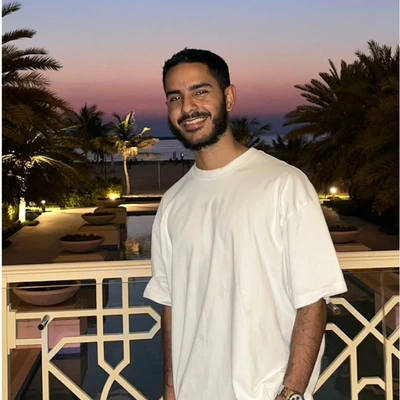
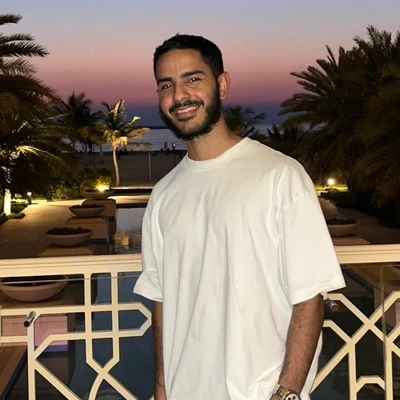
about page added and detailed

diff --git a/app/about/page.tsx b/app/about/page.tsx
@@ -1,0 +1,188 @@
+import Link from 'next/link'
+import type { Metadata } from 'next'
+import Footer from '@/components/sections/Footer'
+import { AUTHOR, AUTHOR_ID, authorSchemaNode } from '@/lib/author'
+
+const BASE = 'https://withitqaan.com'
+
+export const metadata: Metadata = {
+  title: 'About Shayan Qureshi | Founder of ITQAAN',
+  description:
+    'ITQAAN is the work of Shayan Qureshi, a Sharjah-raised, self-taught designer with over a decade building websites, brands, and campaigns for Muslim businesses. Halal by default, no music, no images of women, seen by hundreds of millions.',
+  alternates: { canonical: '/about' },
+  openGraph: {
+    title: 'About Shayan Qureshi | Founder of ITQAAN',
+    description:
+      'Over a decade of premium, halal creative work for Muslim businesses across the UAE, the GCC, and Europe.',
+    url: '/about',
+    type: 'profile',
+  },
+}
+
+const schema = {
+  '@context': 'https://schema.org',
+  '@graph': [
+    {
+      '@type': 'ProfilePage',
+      '@id': `${BASE}/about`,
+      url: `${BASE}/about`,
+      name: 'About Shayan Qureshi | Founder of ITQAAN',
+      isPartOf: { '@id': `${BASE}/#website` },
+      about: { '@id': AUTHOR_ID },
+      mainEntity: { '@id': AUTHOR_ID },
+      breadcrumb: { '@id': `${BASE}/about#breadcrumb` },
+    },
+    authorSchemaNode,
+    {
+      '@type': 'BreadcrumbList',
+      '@id': `${BASE}/about#breadcrumb`,
+      itemListElement: [
+        { '@type': 'ListItem', position: 1, name: 'Home', item: BASE },
+        { '@type': 'ListItem', position: 2, name: 'About', item: `${BASE}/about` },
+      ],
+    },
+  ],
+}
+
+const sections = [
+  {
+    h2: 'The standard behind the name',
+    body: [
+      'The word itqaan appears in the Quran and in the words of the Prophet ﷺ, who taught that Allah loves that when one of you does a work, he does it with itqaan, with excellence and care.',
+      'Shayan came across this hadith after years of already working that way: taking his time, obsessing over the detail, refusing to hand over anything he was not proud of. The hadith named the standard he already held, and it became the name of the studio. He works to embody it in every part of life, not only in the professional work.',
+    ],
+  },
+  {
+    h2: 'Self-taught, from the very first project',
+    body: [
+      'Shayan taught himself Photoshop on his own early projects, then taught it to others. Graphic design came first, then freelance clients, then web design and video editing. The last five years brought his strongest work and his highest-paying clients.',
+      'Today he designs and builds websites, brand identities, graphic design. A client works with one person who understands how every piece fits together, not a chain of handoffs between strangers.',
+    ],
+  },
+  {
+    h2: 'Halal by default, and it still outperforms',
+    body: [
+      'Every project is built the halal way: no music, no images of women, and honest fixed pricing. Most agencies lean on music and women to make work perform, and treat anything else as a handicap.',
+      'Shayan’s work has been seen by hundreds of millions of views and impressions online without either. The discipline is the skill. Working within these limits forces sharper ideas, stronger design, and closer attention to the details that move results, alhamdulillah. Clients get work that respects their deen and beats what the shortcut would have produced.',
+    ],
+  },
+  {
+    h2: 'Rooted in Sharjah, working across the world',
+    body: [
+      'Shayan was raised in Sharjah and knows the UAE market from the inside. He has delivered work for major clients across the UAE, the wider GCC, and Europe, including Saudi Arabia, Oman, the UK, Sweden, and Ireland.',
+      'Everything runs remotely over WhatsApp, email, and screen shares, so distance never changes the standard or the price.',
+    ],
+  },
+  {
+    h2: 'What working with ITQAAN feels like',
+    body: [
+      'Calm and unhurried. A client is working with one professional who has over a decade of experience and a record of results behind him.',
+      'The pace is steady, the communication is direct, and the details are handled, so the business owner stays free to run the business.',
+    ],
+  },
+]
+
+export default function AboutPage() {
+  return (
+    <main style={{ minHeight: '100svh', background: 'var(--color-void)' }}>
+      <script type="application/ld+json" dangerouslySetInnerHTML={{ __html: JSON.stringify(schema) }} />
+
+      {/* Header */}
+      <header style={{ position: 'sticky', top: 0, zIndex: 10, borderBottom: '1px solid var(--color-ink-8)', background: 'rgba(2,2,2,0.72)', backdropFilter: 'blur(20px)', WebkitBackdropFilter: 'blur(20px)' }}>
+        <div style={{ maxWidth: '900px', margin: '0 auto', padding: '18px 32px', display: 'flex', alignItems: 'center', justifyContent: 'space-between' }}>
+          <Link href="/" style={{ display: 'inline-flex', alignItems: 'baseline', gap: '8px', textDecoration: 'none' }}>
+            <span style={{ fontFamily: 'var(--font-display)', fontSize: '1rem', fontWeight: 800, letterSpacing: '0.12em', textTransform: 'uppercase', color: 'var(--color-ink)' }}>ITQAAN</span>
+            <span style={{ fontFamily: 'var(--font-mono)', fontSize: '0.55rem', letterSpacing: '0.18em', textTransform: 'uppercase', color: 'var(--color-ink-28)' }}>Creative Agency</span>
+          </Link>
+          <Link href="/quote" style={{ display: 'inline-flex', alignItems: 'center', gap: '6px', padding: '10px 20px', borderRadius: '9999px', background: 'var(--color-ink)', color: 'var(--color-void)', fontSize: '0.82rem', fontWeight: 600, textDecoration: 'none' }}>
+            Get a quote
+          </Link>
+        </div>
+      </header>
+
+      <article style={{ maxWidth: '900px', margin: '0 auto', padding: '72px 32px 40px' }}>
+        <style>{`
+          @media (max-width: 760px) {
+            .about-hero { grid-template-columns: 1fr !important; gap: 36px !important; }
+            .about-photo { max-width: 280px; }
+            .about-wrap { padding: 48px 20px 32px !important; }
+          }
+          .about-body { max-width: 680px; }
+        `}</style>
+
+        <div className="about-wrap">
+          {/* Hero */}
+          <div className="about-hero" style={{ display: 'grid', gridTemplateColumns: '1.5fr 1fr', gap: '48px', alignItems: 'center', marginBottom: '72px' }}>
+            <div>
+              <p style={{ display: 'flex', alignItems: 'center', gap: '12px', fontFamily: 'var(--font-mono)', fontSize: '0.65rem', letterSpacing: '0.22em', textTransform: 'uppercase', color: 'var(--color-ink-48)', margin: '0 0 20px' }}>
+                <span aria-hidden="true" style={{ width: '4px', height: '4px', borderRadius: '50%', background: 'var(--color-ember)' }} />
+                About ITQAAN
+              </p>
+              <h1 style={{ fontFamily: 'var(--font-display)', fontSize: 'clamp(32px, 5vw, 54px)', fontWeight: 800, lineHeight: 1.05, letterSpacing: '-0.03em', color: 'var(--color-ink)', margin: '0 0 24px' }}>
+                Halal and premium were never a trade-off.
+              </h1>
+              <p style={{ fontSize: '1.1rem', fontWeight: 300, lineHeight: 1.7, color: 'var(--color-ink-72)', margin: 0 }}>
+                ITQAAN is the work of Shayan Qureshi, a self-taught designer raised in Sharjah who has spent over a decade building websites, brands, and campaigns for Muslim businesses. All of it without music, without images of women, and seen by hundreds of millions.
+              </p>
+            </div>
+
+            <figure style={{ margin: 0 }}>
+              <div className="about-photo" style={{ position: 'relative', width: '100%', aspectRatio: '4 / 5', borderRadius: '18px', overflow: 'hidden', border: '1px solid var(--color-ink-10)', background: 'var(--color-ink-3)' }}>
+                <img src={AUTHOR.image} alt={`${AUTHOR.name}, founder of ITQAAN`} style={{ position: 'absolute', inset: 0, width: '100%', height: '100%', objectFit: 'cover' }} />
+              </div>
+              <figcaption style={{ fontFamily: 'var(--font-mono)', fontSize: '0.6rem', letterSpacing: '0.14em', textTransform: 'uppercase', color: 'var(--color-ink-28)', marginTop: '12px', lineHeight: 1.5 }}>
+                {AUTHOR.name}, founder of ITQAAN. Over a decade of halal creative work.
+              </figcaption>
+            </figure>
+          </div>
+
+          {/* Body sections */}
+          <div className="about-body">
+            {sections.map((s, i) => (
+              <section key={i} style={{ marginBottom: '48px' }}>
+                <h2 style={{ fontFamily: 'var(--font-display)', fontSize: 'clamp(22px, 3vw, 30px)', fontWeight: 700, letterSpacing: '-0.02em', color: 'var(--color-ink)', margin: '0 0 18px', lineHeight: 1.2 }}>
+                  {s.h2}
+                </h2>
+                {s.body.map((p, j) => (
+                  <p key={j} style={{ fontSize: '1rem', fontWeight: 300, lineHeight: 1.8, color: 'var(--color-ink-48)', margin: '0 0 16px' }}>{p}</p>
+                ))}
+              </section>
+            ))}
+
+            {/* Proof, linked out */}
+            <section style={{ marginTop: '56px', paddingTop: '40px', borderTop: '1px solid var(--color-ink-8)' }}>
+              <h2 style={{ fontFamily: 'var(--font-display)', fontSize: 'clamp(20px, 2.6vw, 26px)', fontWeight: 700, letterSpacing: '-0.02em', color: 'var(--color-ink)', margin: '0 0 16px' }}>
+                See the work, hear from clients
+              </h2>
+              <p style={{ fontSize: '1rem', fontWeight: 300, lineHeight: 1.8, color: 'var(--color-ink-48)', margin: '0 0 22px' }}>
+                The clearest measure of a standard is the work it produces and the people it is produced for.
+              </p>
+              <div style={{ display: 'flex', flexWrap: 'wrap', gap: '10px' }}>
+                <Link href="/portfolio" style={{ display: 'inline-flex', alignItems: 'center', gap: '8px', padding: '12px 22px', borderRadius: '9999px', border: '1px solid var(--color-ink-10)', background: 'var(--color-ink-3)', color: 'var(--color-ink-72)', fontSize: '0.85rem', fontWeight: 500, textDecoration: 'none' }}>
+                  View recent work
+                  <svg width="12" height="12" viewBox="0 0 24 24" fill="none" stroke="currentColor" strokeWidth="2.5" strokeLinecap="round" strokeLinejoin="round" aria-hidden="true"><path d="M5 12h14" /><path d="m13 6 6 6-6 6" /></svg>
+                </Link>
+                <Link href="/#testimonials" style={{ display: 'inline-flex', alignItems: 'center', gap: '8px', padding: '12px 22px', borderRadius: '9999px', border: '1px solid var(--color-ink-10)', background: 'var(--color-ink-3)', color: 'var(--color-ink-72)', fontSize: '0.85rem', fontWeight: 500, textDecoration: 'none' }}>
+                  Read client stories
+                  <svg width="12" height="12" viewBox="0 0 24 24" fill="none" stroke="currentColor" strokeWidth="2.5" strokeLinecap="round" strokeLinejoin="round" aria-hidden="true"><path d="M5 12h14" /><path d="m13 6 6 6-6 6" /></svg>
+                </Link>
+              </div>
+            </section>
+
+            {/* Bottom CTA */}
+            <div style={{ marginTop: '56px', padding: '36px', borderRadius: '16px', border: '1px solid var(--color-ink-10)', background: 'var(--color-ink-3)', textAlign: 'center' }}>
+              <h2 style={{ fontFamily: 'var(--font-display)', fontSize: '1.4rem', fontWeight: 700, color: 'var(--color-ink)', margin: '0 0 10px' }}>Start your project with itqaan</h2>
+              <p style={{ fontSize: '0.9rem', fontWeight: 300, color: 'var(--color-ink-48)', margin: '0 0 24px' }}>Build your quote in under a minute and get a fixed price within 24 hours.</p>
+              <Link href="/quote" style={{ display: 'inline-flex', alignItems: 'center', gap: '8px', padding: '14px 30px', borderRadius: '9999px', background: 'var(--color-ink)', color: 'var(--color-void)', fontSize: '0.9rem', fontWeight: 600, textDecoration: 'none' }}>
+                Get a quote
+                <svg width="14" height="14" viewBox="0 0 24 24" fill="none" stroke="currentColor" strokeWidth="2.5" strokeLinecap="round" strokeLinejoin="round" aria-hidden="true"><path d="M5 12h14" /><path d="m13 6 6 6-6 6" /></svg>
+              </Link>
+            </div>
+          </div>
+        </div>
+      </article>
+
+      <Footer />
+    </main>
+  )
+}

diff --git a/app/layout.tsx b/app/layout.tsx
@@ -78,6 +78,10 @@ export default function RootLayout({
       className={`${plusJakarta.variable} ${dmSans.variable} ${dmMono.variable}`}
     >
       <head>
+        {/* Warm up the analytics origins so the lazy-loaded GA4 request is faster
+            when it fires. */}
+        <link rel="preconnect" href="https://www.googletagmanager.com" />
+        <link rel="dns-prefetch" href="https://www.google-analytics.com" />
         {/* Take scroll restoration off the browser's 'auto' default before first
             paint, so navigating from the footer to a new page never lands on the
             old scroll offset. Must be inline (runs before restoration); the
@@ -95,9 +99,12 @@ export default function RootLayout({
         </LenisProvider>
         <WhatsAppFab />
 
-        {/* Google Analytics 4 */}
-        <Script src={`https://www.googletagmanager.com/gtag/js?id=${GA_ID}`} strategy="afterInteractive" />
-        <Script id="ga4-init" strategy="afterInteractive">
+        {/* Google Analytics 4 — lazyOnload so the ~160KB gtag bundle loads on
+            browser idle after the page is interactive, instead of blocking the
+            main thread during load. Conversion events fire on user action (quote
+            submit), well after this, so nothing is lost. */}
+        <Script src={`https://www.googletagmanager.com/gtag/js?id=${GA_ID}`} strategy="lazyOnload" />
+        <Script id="ga4-init" strategy="lazyOnload">
           {`
             window.dataLayer = window.dataLayer || [];
             function gtag(){dataLayer.push(arguments);}

diff --git a/lib/author.ts b/lib/author.ts
@@ -31,7 +31,9 @@ export const authorSchemaNode = {
   jobTitle: AUTHOR.role,
   description: AUTHOR.fullBio,
   image: `${BASE}${AUTHOR.image}`,
-  url: BASE,
+  url: `${BASE}/about`,
+  mainEntityOfPage: `${BASE}/about`,
   worksFor: { '@id': `${BASE}/#organization` },
-  knowsAbout: ['Web design', 'Brand identity', 'Graphic design', 'Web design for Muslim businesses'],
+  homeLocation: { '@type': 'Place', name: 'Sharjah, United Arab Emirates' },
+  knowsAbout: ['Web design', 'Web development', 'Brand identity', 'Graphic design', 'Video editing', 'Halal web design for Muslim businesses'],
 }

diff --git a/app/sitemap.ts b/app/sitemap.ts
@@ -16,6 +16,7 @@ export default function sitemap(): MetadataRoute.Sitemap {
     { url: `${BASE}/portfolio`, lastModified: now, changeFrequency: 'monthly', priority: 0.7 },
     { url: `${BASE}/how-we-work`, lastModified: now, changeFrequency: 'monthly', priority: 0.7 },
     { url: `${BASE}/problems-we-solve`, lastModified: now, changeFrequency: 'monthly', priority: 0.8 },
+    { url: `${BASE}/about`, lastModified: now, changeFrequency: 'monthly', priority: 0.7 },
     { url: `${BASE}/faq`,   lastModified: now, changeFrequency: 'monthly', priority: 0.7 },
     { url: `${BASE}/blog`,  lastModified: now, changeFrequency: 'weekly',  priority: 0.7 },
     { url: `${BASE}/privacy`, lastModified: now, changeFrequency: 'yearly', priority: 0.3 },

diff --git a/components/sections/Footer.tsx b/components/sections/Footer.tsx
@@ -3,6 +3,7 @@
 import { readyServices } from '@/lib/serviceNav'
 
 const navLinks = [
+  { label: 'About',             href: '/about' },
   { label: 'Portfolio',         href: '/portfolio' },
   { label: 'How we work',       href: '/how-we-work' },
   { label: 'Pricing',           href: '/pricing'  },